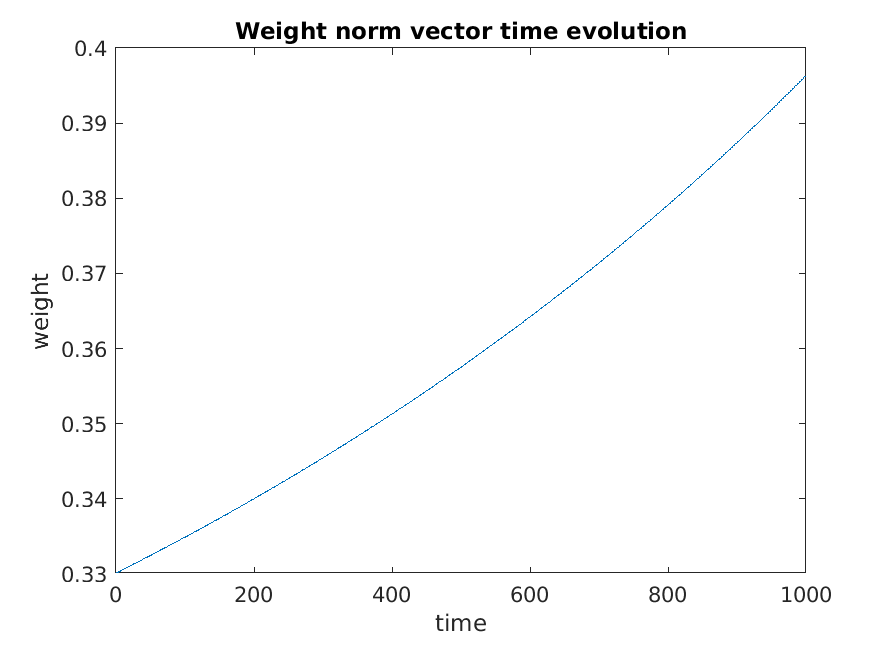
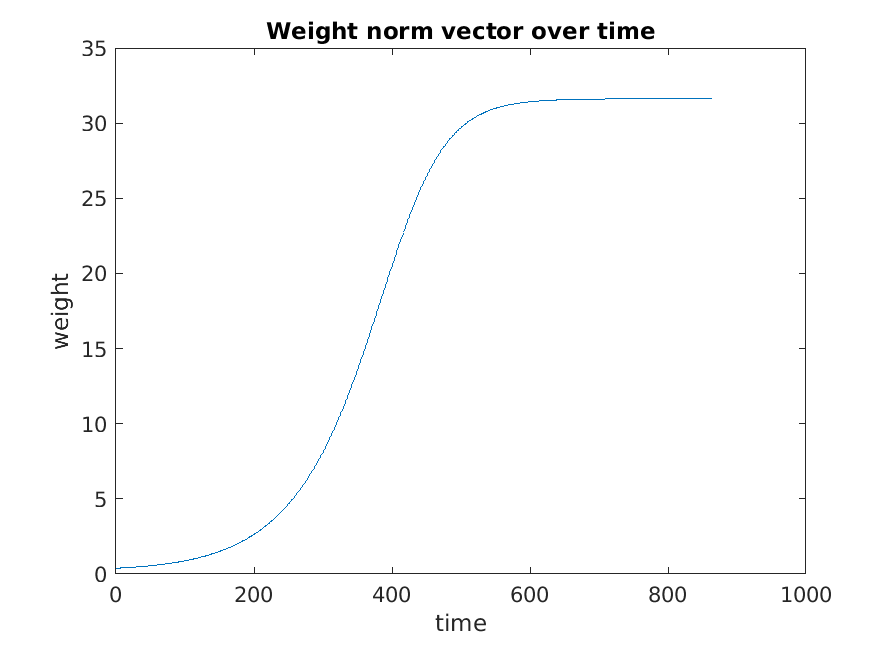
Fixed correlation matrix and refactoring (Oja rule)

diff --git a/LAB2_1/Assignment2/oja_rule.m b/LAB2_1/Assignment2/oja_rule.m
@@ -4,85 +4,84 @@ clear variables;
 data = readtable('../lab2_1_data.csv');  % importing data as table
 U = table2array(data);  % converting table into input array
 U_size = size(U,2);  % training set dimension
-eta = 10e-6;  % learning rate
+eta = 2*10e-5;  % learning rate
 epochs=1000;  % iterations
-alpha = 10e-3;
+alpha = 10e-4;
 theta = 10e-6;  % threshold for early stopping
-Q = U'*U;  % input correlation matrix
-W_t = zeros(2, epochs);
+Q = U*U';  % input correlation matrix
+weights = [];
 
-W = -1 + (1+1)*rand(2,1);  % random weights initialization
-W_norm = zeros(1, epochs);
-w_norm = norm(W);
+w = -1 + 2.*rand(2,1);  % random weights initialization
+W_norm = [];
 
 for i = 1:epochs
     U = U(:,randperm(U_size));  % reshuffling dataset
+    w_norm = norm(w);
     
     for n = 1:U_size
         % linear firing model
         u = U(:,n);
-        v = W' * u;  % compute output
-        delta_W = v * u - (alpha * v^2 * W);  % Oja delta
-        W = W + eta * delta_W;  % update weights
+        v = w' * u;  % compute output
+        delta_w = v * u - (alpha * v^2 * w);  % Oja delta
+        w = w + eta * delta_w;  % update weights
     end
     
-    W_norm(i) = w_norm;
-    w_norm_new = norm(W);
-    W_out = W/norm(W);
-    W_t(:,i) = W_out;
+    weights(:,i) = w/norm(w);
     
+    w_norm_new = norm(w);
+    W_norm = [W_norm; w_norm_new];
     diff = w_norm_new - w_norm;
-    w_norm = w_norm_new;
     
     fprintf('Epoch: %d Norm(W): %1.5f Diff: %1.7f Theta: %1.7f \n', i, w_norm, diff, theta)
     
-    if diff < theta
+    if diff < theta  % stop condition
         break;
     end    
 end
 
-[EV, D] = eig(Q);  % computing eigenvalues and eigenvectors of Q
-[d, ind] = sort(diag(D));  % sort eigenvectors
-EV = EV(:,ind);
-ev = EV(:,1);  % take the principal eigenvector
+[eigvecs, D] = eig(Q);  % computing eigenvalues and diagonal matrix of Q
+eigvals = diag(D);  % storing eigenvalues in a separated array
+[max_eigval, max_i] = max(eigvals);  % take the principal eigenvector index
 
 % Plotting data points and comparison between final weight vector and
 % principal eigenvector of Q
 fig = figure;
-scatter(U(1,:),U(2,:), '.')
 hold on
-plotv(ev);
+plot(U(1,:),U(2,:), '.')
+plotv(eigvecs(:,max_i));
+%plotv(ev);
 set(findall(gca,'Type', 'Line'),'LineWidth',1.75);
-plotv(W)
-hold off
+plotv(w/norm(w))
 legend('data points','principal eigenvector','weight vector','Location', 'best')
 title('P1: data points, final weight vector and principal eigenvector of Q');
 print(fig,'P1.png','-dpng')
 
 
-x=(1:1:epochs);
-% weight evolution, first component
+x=(1:1:length(weights));  % epochs time array
+% weight over time, first component
 fig = figure;
-plot(x, W_t(1,:));
+plot(x, weights(1,:));
 xlabel('time')
 ylabel('weight')
-title('Weight vector time evolution (1st component)')
+title('Weight vector over time (1st component)')
 print(fig,'P2.1.png','-dpng')
 
-% weight evolution, second component
+% weight over time, second component
 fig = figure;
-plot(x, W_t(2,:))
+plot(x, weights(2,:))
 xlabel('time')
 ylabel('weight')
-title('Weight vector time evolution (2nd component)')
+title('Weight vector over time (2nd component)')
 print(fig,'P2.2.png','-dpng')
 
-% weight norm evolution
+% weight norm over time
 fig = figure;
 plot(x, W_norm)
 xlabel('time')
 ylabel('weight')
-title('Weight norm vector time evolution')
+title('Weight norm vector over time')
 print(fig,'P2.3.png','-dpng')
 
-save('W_t.mat','W_t');
+save('weights.mat','weights');
+
+

diff --git a/LAB2_1/Assignment1/hebb_rule.m b/LAB2_1/Assignment1/hebb_rule.m
@@ -40,11 +40,7 @@ end
 
 [eigvecs, D] = eig(Q);  % computing eigenvalues and diagonal matrix of Q
 eigvals = diag(D);  % storing eigenvalues in a separated array
-%[d, ind] = sort(eigvals);
-%EV = eigvecs(:,ind);
-%ev = EV(:,1);
-
-[max_eigval, max_i] = max(eigvals);  % take the principal eigenvector
+[max_eigval, max_i] = max(eigvals);  % take the principal eigenvector index
 
 % Plotting data points and comparison between final weight vector and
 % principal eigenvector of Q
@@ -52,7 +48,6 @@ fig = figure;
 hold on
 plot(U(1,:),U(2,:), '.')
 plotv(eigvecs(:,max_i));
-%plotv(ev);
 set(findall(gca,'Type', 'Line'),'LineWidth',1.75);
 plotv(w/norm(w))
 legend('data points','principal eigenvector','weight vector','Location', 'best')
@@ -60,7 +55,7 @@ title('P1: data points, final weight vector and principal eigenvector of Q');
 print(fig,'P1.png','-dpng')
 
 
-x=(1:1:epochs);  % epochs time array
+x=(1:1:length(weights));  % epochs time array
 % weight over time, first component
 fig = figure;
 plot(x, weights(1,:));
@@ -77,7 +72,7 @@ ylabel('weight')
 title('Weight vector over time (2nd component)')
 print(fig,'P2.2.png','-dpng')
 
-% weight norm evolution
+% weight norm over time
 fig = figure;
 plot(x, W_norm)
 xlabel('time')
